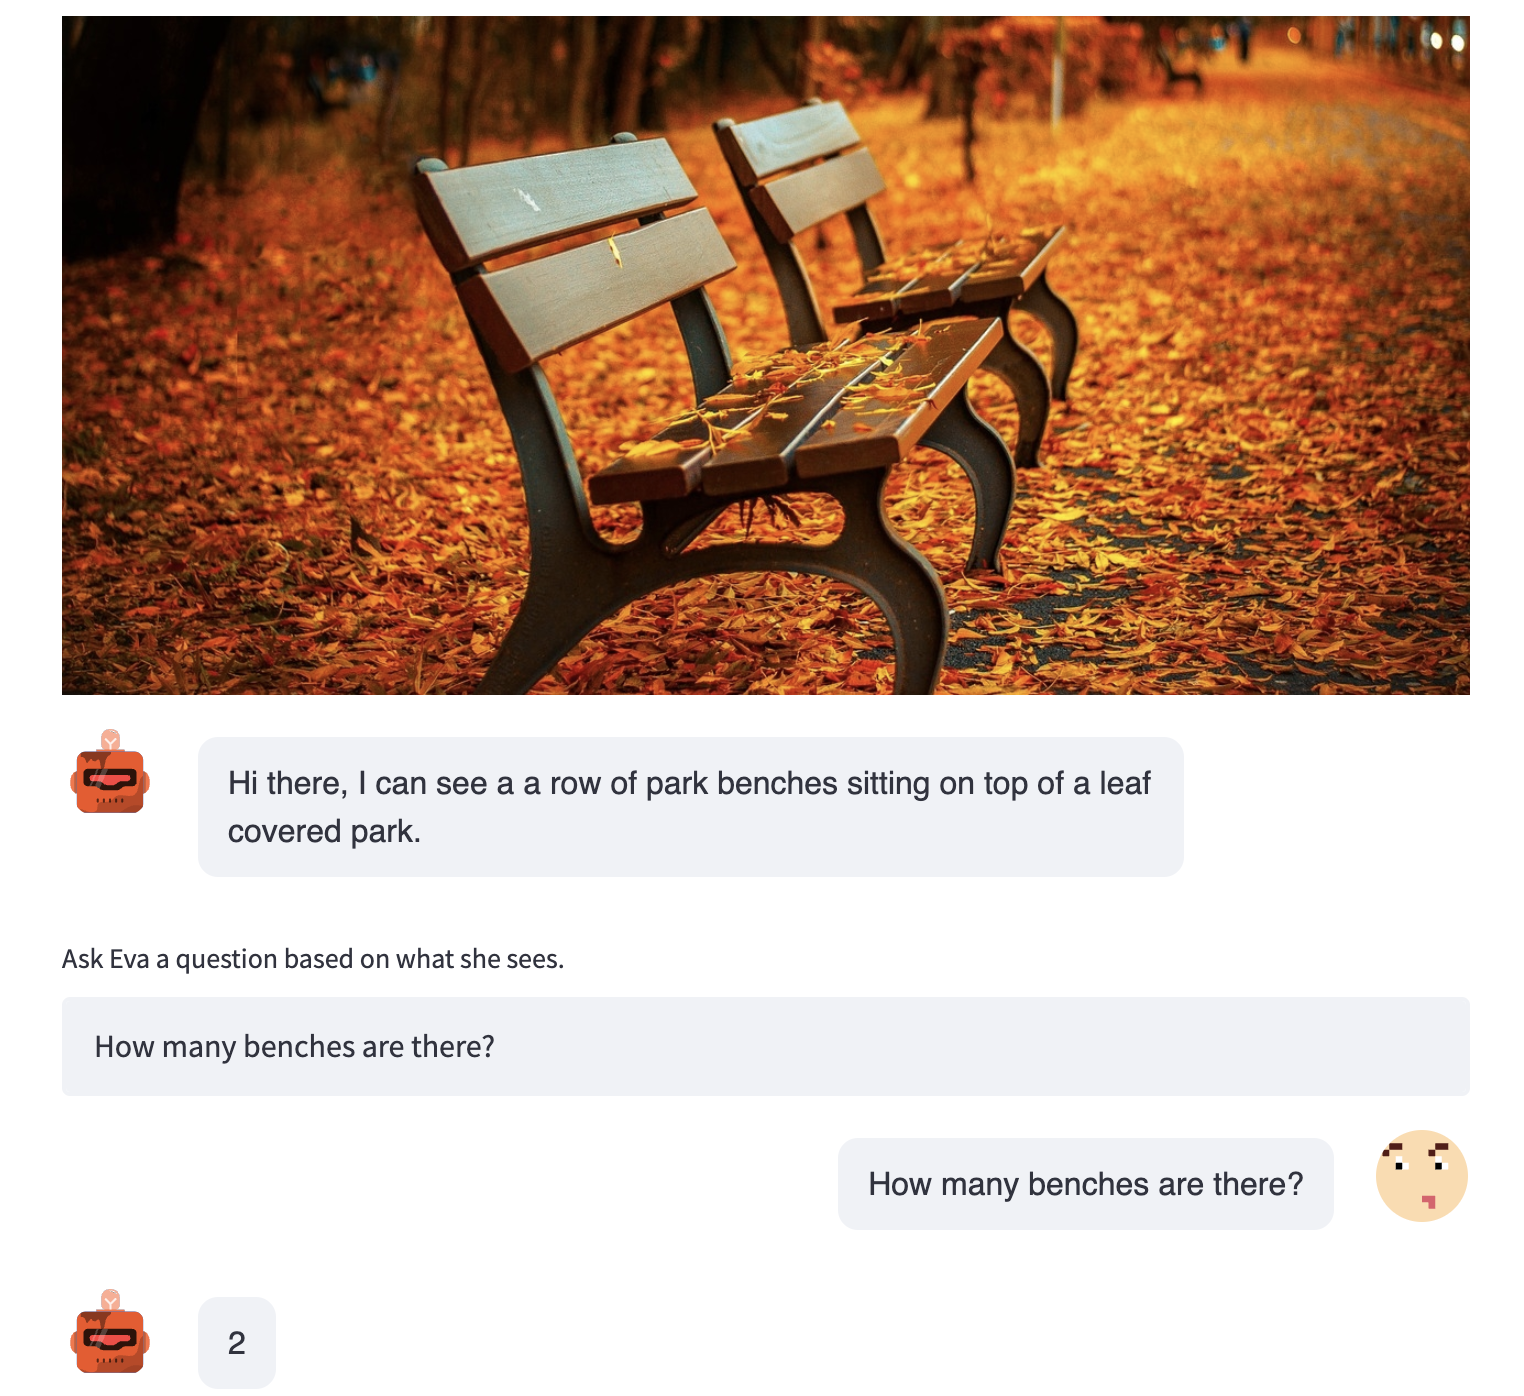
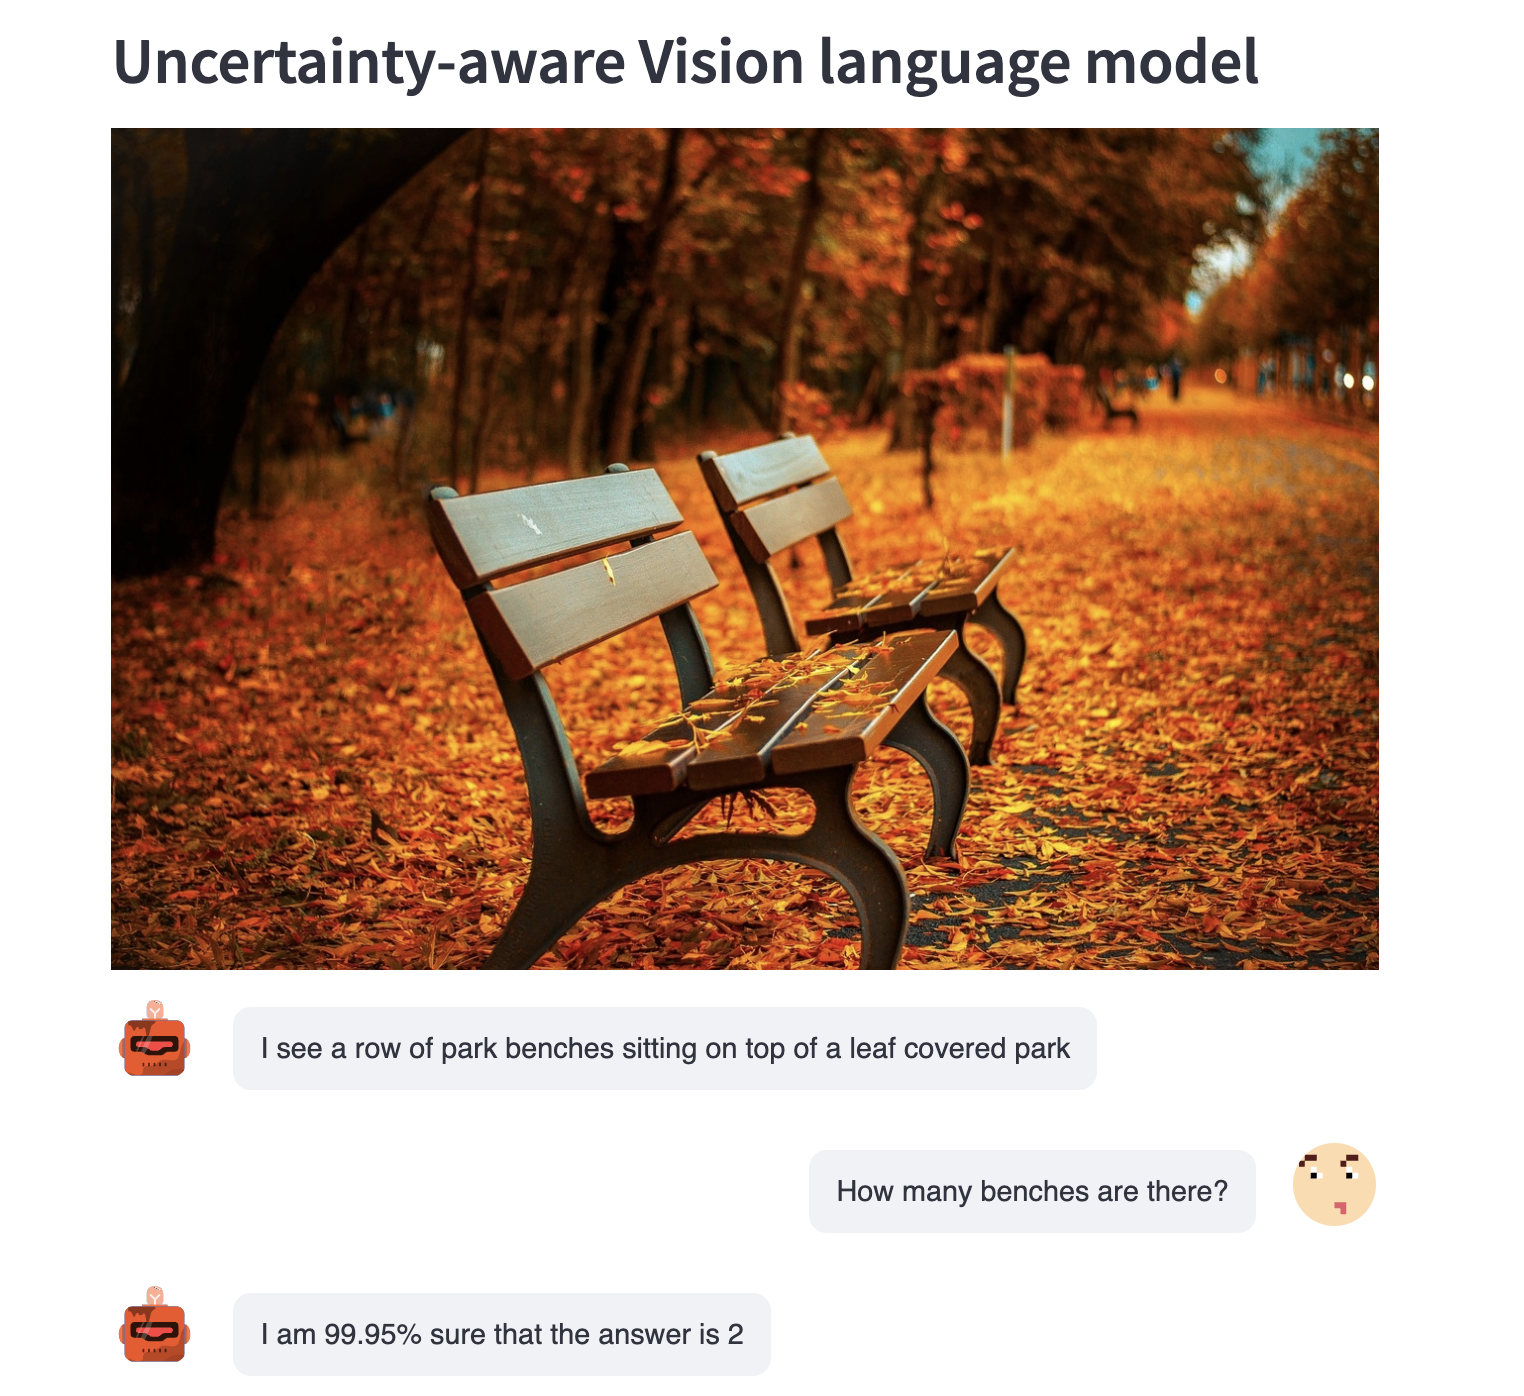
updated interface to ooutput answer uncertainty

diff --git a/app.py b/app.py
@@ -9,7 +9,7 @@ import answer_question
 st.set_option('deprecation.showfileUploaderEncoding', False)
 st.set_page_config(
     page_title="u-VLM",
-    page_icon=":robot:"
+    page_icon="🤖"
 )
 st.header("Uncertainty-aware Vision language model")
 
@@ -21,14 +21,14 @@ if "image" not in st.session_state:
         st.session_state.image = img
 
 if "caption" not in st.session_state and "image" in st.session_state:
-    with st.spinner('Waking up Eva...'):
+    with st.spinner('Loading model...'):
         caption = caption_image.caption_api(st.session_state.image)
-        st.session_state.caption = caption
+        st.session_state.caption = f"I see {caption[0]}"
     st.image(st.session_state.image)
     message(st.session_state.caption, key="0")
 
 if "question" not in st.session_state and "caption" in st.session_state and "image" in st.session_state:
-    question = st.text_input("Ask Eva a question based on what she sees.")
+    question = st.text_input("Ask the model a question based on what it sees.")
     if question:
         st.session_state.question = question
 
@@ -36,6 +36,9 @@ if "answer" not in st.session_state and "question" in st.session_state and "capt
     st.image(st.session_state.image)
     message(st.session_state.caption, key="1")
     message(st.session_state.question, is_user=True)
-    with st.spinner('Asking eva...'):
+    with st.spinner('Asking the model...'):
         answer = answer_question.answer_api(st.session_state.image, st.session_state.question)
-    message(answer[0]["answer"])
+    ans_class = answer[0]["answer"]
+    ans_prob = answer[0]["probability"]
+    message(f"I am {ans_prob}% sure that the answer is {ans_class}")
+    # message(answer[0]["answer"])

diff --git a/answer_question.py b/answer_question.py
@@ -1,11 +1,13 @@
 """Handler for answering question from a specified image."""
 import argparse
 import ruamel.yaml as yaml
-import torch
-import torch.nn as nn
-from PIL import Image
 import json
 
+import math
+import torch
+import torch.nn as nn
+
+from PIL import Image
 from torchvision import transforms
 
 from models.model_vqa import XVLM
@@ -39,8 +41,9 @@ def answer_question(model, image, question, tokenizer, device, config):
 
     result = []
     for topk_id, topk_prob in zip(topk_ids, topk_probs):
-        _, pred = topk_prob.max(dim=0)
-        result.append({"answer": answer_list[topk_id[pred]]})
+        prob, pred = topk_prob.max(dim=0)
+        prob = math.floor(prob.item() * 1e4) / 100  # round down to two decimals
+        result.append({"answer": answer_list[topk_id[pred]], "probability": prob})
 
     return result
 
